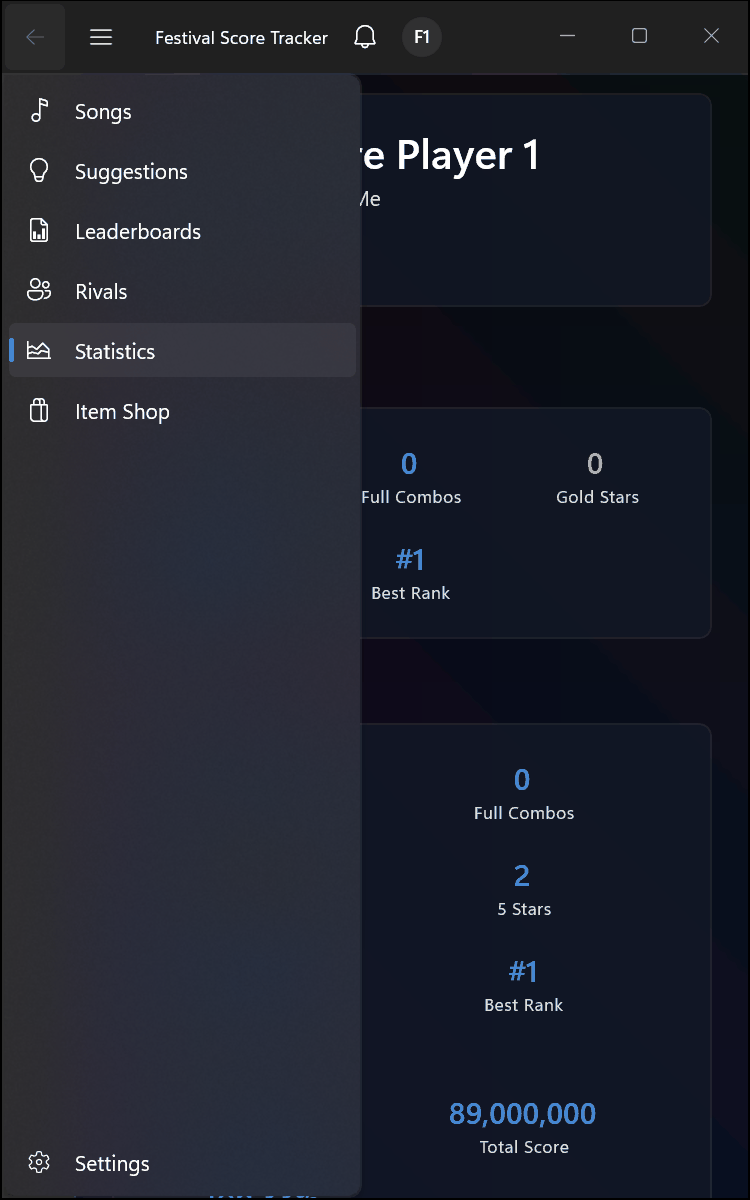
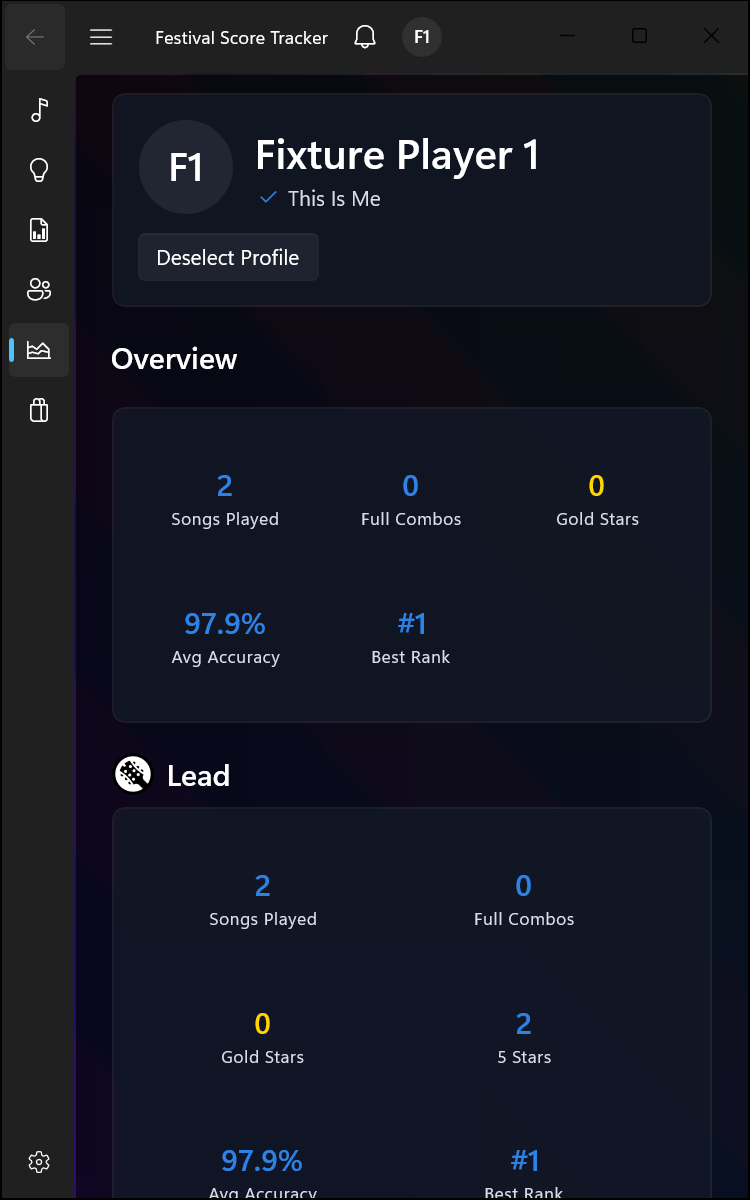
Windows Profile: stable stat tiles (no layout cycle), chart hysteresis, refreshed screenshots
Claude-Session: https://claude.ai/code/session_013aZ1hB9ykhUQ9qaqa5AE9D

diff --git a/windows/Festival.App/Controls/PlayerProfileView.xaml b/windows/Festival.App/Controls/PlayerProfileView.xaml
@@ -12,9 +12,9 @@
     -->
     <UserControl.Resources>
         <DataTemplate x:Key="StatTileTemplate" x:DataType="vm:PlayerStatTile">
-            <StackPanel Spacing="2" Padding="4,6" AutomationProperties.Name="{x:Bind Announcement}">
+            <StackPanel Spacing="2" Padding="4,6" VerticalAlignment="Center" AutomationProperties.Name="{x:Bind Announcement}">
                 <TextBlock Text="{x:Bind Value}" Style="{StaticResource SubtitleTextBlockStyle}" HorizontalAlignment="Center"
-                           Foreground="{x:Bind controls:PlayerBrushes.Tile(Gold)}" TextTrimming="CharacterEllipsis" />
+                           Foreground="{x:Bind controls:PlayerBrushes.Tile(Gold)}" TextAlignment="Center" />
                 <TextBlock Text="{x:Bind Label}" FontSize="11" CharacterSpacing="40" HorizontalAlignment="Center" TextAlignment="Center"
                            Foreground="{ThemeResource FSTSecondaryTextBrush}" TextWrapping="Wrap" />
             </StackPanel>
@@ -78,7 +78,7 @@
                 <Border Style="{StaticResource FSTCardStyle}">
                     <ItemsRepeater ItemsSource="{x:Bind ViewModel.Overview, Mode=OneWay}" ItemTemplate="{StaticResource StatTileTemplate}">
                         <ItemsRepeater.Layout>
-                            <UniformGridLayout MinItemWidth="112" MinItemHeight="56" MinColumnSpacing="8" MinRowSpacing="8" ItemsStretch="Fill" />
+                            <UniformGridLayout MinItemWidth="112" MinItemHeight="84" MinColumnSpacing="8" MinRowSpacing="8" ItemsStretch="Fill" />
                         </ItemsRepeater.Layout>
                     </ItemsRepeater>
                 </Border>
@@ -115,7 +115,7 @@
                                                        TextWrapping="Wrap" AutomationProperties.AutomationId="{x:Bind controls:PlayerProfileView.EmptyId(AutomationKey)}" />
                                             <ItemsRepeater ItemsSource="{x:Bind Stats}" Visibility="{x:Bind HasScores}" ItemTemplate="{StaticResource StatTileTemplate}">
                                                 <ItemsRepeater.Layout>
-                                                    <UniformGridLayout MinItemWidth="112" MinItemHeight="56" MinColumnSpacing="8" MinRowSpacing="8" ItemsStretch="Fill" />
+                                                    <UniformGridLayout MinItemWidth="112" MinItemHeight="84" MinColumnSpacing="8" MinRowSpacing="8" ItemsStretch="Fill" />
                                                 </ItemsRepeater.Layout>
                                             </ItemsRepeater>
                                             <StackPanel Visibility="{x:Bind HasScores}" Spacing="8">
@@ -133,7 +133,7 @@
                                                 <ItemsRepeater ItemsSource="{x:Bind RankTiles, Mode=OneWay}" Visibility="{x:Bind RankAvailable, Mode=OneWay}"
                                                                ItemTemplate="{StaticResource StatTileTemplate}">
                                                     <ItemsRepeater.Layout>
-                                                        <UniformGridLayout MinItemWidth="120" MinItemHeight="56" MinColumnSpacing="8" ItemsStretch="Fill" />
+                                                        <UniformGridLayout MinItemWidth="112" MinItemHeight="84" MinColumnSpacing="8" ItemsStretch="Fill" />
                                                     </ItemsRepeater.Layout>
                                                 </ItemsRepeater>
                                             </StackPanel>

diff --git a/windows/Festival.App/Controls/PlayerProfileView.xaml.cs b/windows/Festival.App/Controls/PlayerProfileView.xaml.cs
@@ -12,7 +12,10 @@ namespace Festival.App.Controls;
 public sealed partial class PlayerProfileView : UserControl
 {
     /// <summary>Card width at which charts move beside the stats.</summary>
-    private const double SideBySideWidth = 760;
+    private const double SideBySideWidth = 780;
+
+    /// <summary>Card width below which charts move back under the stats (hysteresis against scrollbar-width oscillation).</summary>
+    private const double StackedWidth = 740;
 
     /// <summary>Creates the view.</summary>
     public PlayerProfileView() => InitializeComponent();
@@ -111,7 +114,9 @@ public sealed partial class PlayerProfileView : UserControl
     private void OnInstrumentCardSizeChanged(object sender, SizeChangedEventArgs e)
     {
         if (sender is not Grid grid || grid.Children.Count < 2 || grid.Children[1] is not FrameworkElement charts) return;
-        var wide = e.NewSize.Width >= SideBySideWidth;
+        var isWide = grid.ColumnDefinitions[1].Width.IsStar;
+        var wide = isWide ? e.NewSize.Width >= StackedWidth : e.NewSize.Width >= SideBySideWidth;
+        if (wide == isWide) return;
         grid.ColumnDefinitions[1].Width = wide ? new GridLength(1, GridUnitType.Star) : new GridLength(0);
         Grid.SetRow(charts, wide ? 0 : 1);
         Grid.SetColumn(charts, wide ? 1 : 0);

diff --git a/tools/windows/journeys/profile.py b/tools/windows/journeys/profile.py
@@ -75,7 +75,7 @@ JOURNEYS = [
              "waitfor:id=fst.player.name@15", "waitfor:id=fst.player.select@10"],
             ["invoke:id=fst.player.select", "waitfor:id=fst.player.deselect@10", "waitfor:id=fst.nav.statistics@10"],
             ["click:id=fst.nav.statistics", "waitfor:id=fst.statistics@10", "waitfor:id=fst.player.deselect@15",
-             "waitfor:id=fst.player.overview@15", "wait:2"],
+             "waitfor:id=fst.player.overview@15", "wait:5"],
             ["invoke:id=fst.player.deselect", "waitfor:id=PrimaryButton@10", "invoke:id=PrimaryButton", "wait:2"],
         ],
         expect=[

diff --git a/.agents/pages/player-profile/windows.md b/.agents/pages/player-profile/windows.md
@@ -14,8 +14,8 @@ Never player-stats: overview/instrument stats and percentile buckets are compute
 
 ## Layout
 
-- One `ScrollViewer` (max 1280 epx): header card, Overview tiles, one titled card per Settings-visible instrument, then the Bands link. Tiles are an `ItemsRepeater` + `UniformGridLayout` (min 112 epx), reflowing from one column (compact) to five (wide).
-- Instrument card: stats + Global Rank on the left; Rank History (rank line with #1 on top over Total Score bars, `RankHistoryChart`) and Percentiles (horizontal bars, top 5% gold) on the right once the card is at least 760 epx wide, below otherwise (`OnInstrumentCardSizeChanged`). Rank/history reads start when the card is realized; unplayed charts read nothing.
+- One `ScrollViewer` (max 1280 epx): header card, Overview tiles, one titled card per Settings-visible instrument, then the Bands link. Tiles are an `ItemsRepeater` + `UniformGridLayout` (min 112×84 epx so a long value can wrap to two lines above its label), reflowing from one column (compact) to five (wide).
+- Instrument card: stats + Global Rank on the left; Rank History (rank line with #1 on top over Total Score bars, `RankHistoryChart`) and Percentiles (horizontal bars, top 5% gold) on the right once the card is at least 780 epx wide and back below under 740 epx (hysteresis: a vertical scrollbar appearing near one threshold could otherwise oscillate) (`OnInstrumentCardSizeChanged`). Rank/history reads start when the card is realized; unplayed charts read nothing.
 - Charts are static XAML shapes (`PlayerLineChart`) redrawn only on data or size change, with no per-frame work. Each chart is one UIA `Image` named with the trend summary.
 - Header: `PersonPicture`, name (H1), "This Is Me"/"Public Profile"; the action row sits under the avatar row so it never clips on narrow windows.
 
@@ -45,4 +45,4 @@ UIA gotcha: `Border`, `StackPanel`, `ItemsRepeater` and `UserControl` are not in
 ## Gaps
 
 - No Quick Links (the Windows idiom is Settings-lane work), no experimental rank metrics, no top-songs section and no tap-to-filter tiles: the same simplifications as iPhone.
-- Compact windows keep the shell's `NavigationView` pane open (`PaneDisplayMode="Left"`), leaving about 260 epx of content at 500 epx. TODO(orchestrator): adopt `Auto`/`LeftMinimal` below about 640 epx in the shell.
+- Compact windows rely on the shell's `NavigationView` `PaneDisplayMode="Auto"` (overlay pane below the expanded threshold); the page itself reflows to one tile column and stacks charts under the stats.
